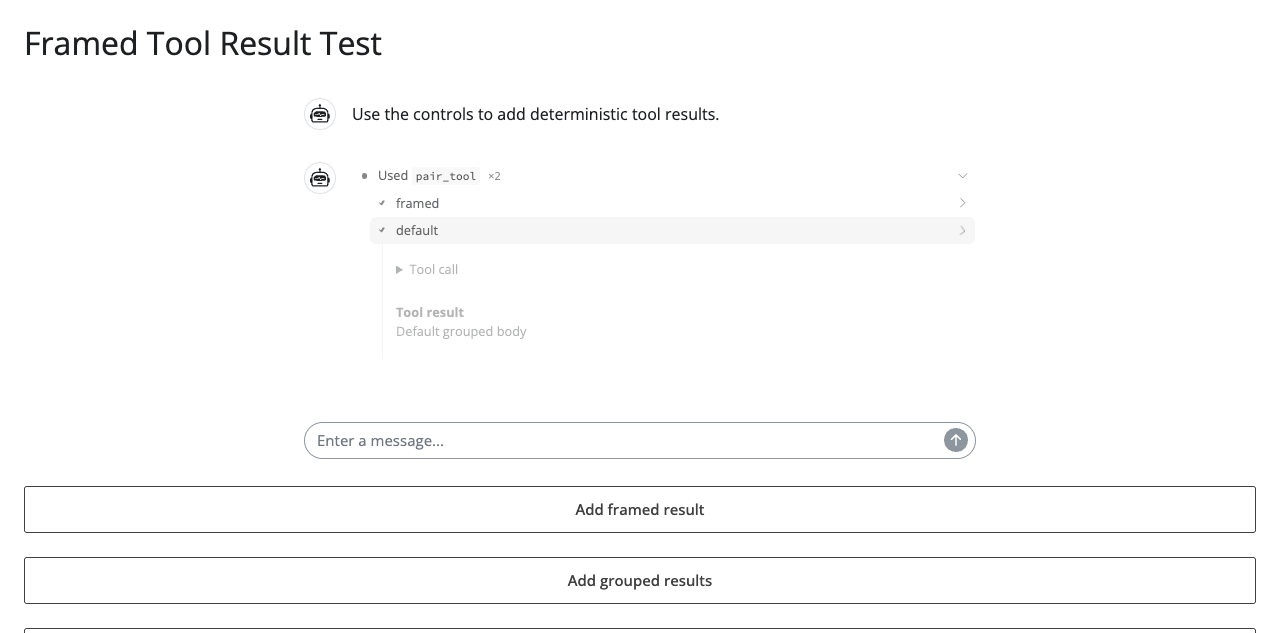
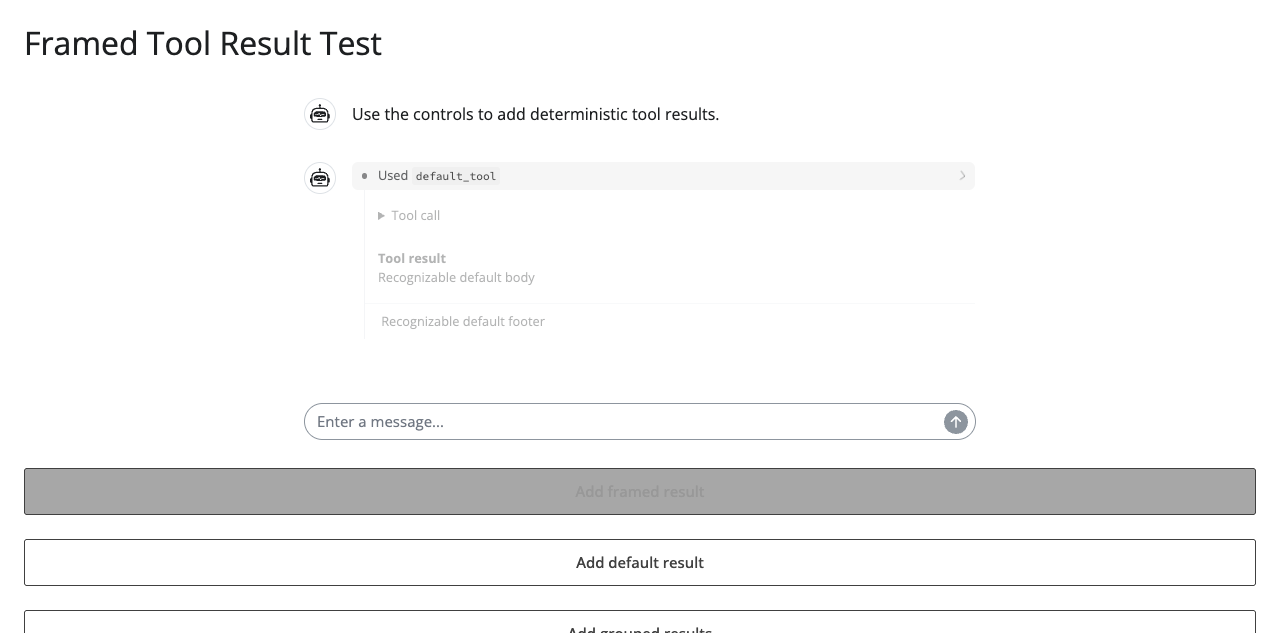
docs: clarify framed tool result states

diff --git a/pkg-py/tests/playwright/tools/framed_result/app.py b/pkg-py/tests/playwright/tools/framed_result/app.py
@@ -97,6 +97,7 @@ chat = Chat(id="chat")
 chat.ui(messages=["Use the controls to add deterministic tool results."])
 
 ui.input_action_button("add_framed", "Add framed result")
+ui.input_action_button("add_default", "Add default result")
 ui.input_action_button("add_grouped", "Add grouped results")
 ui.input_action_button("add_fullscreen", "Add fullscreen result")
 ui.input_action_button("add_error", "Add errored result")
@@ -114,6 +115,20 @@ async def add_framed_result() -> None:
             text="Recognizable framed body",
             footer=ui.span("Recognizable framed footer"),
             presentation="framed",
+        ),
+    )
+
+
+@reactive.effect
+@reactive.event(input.add_default)
+async def add_default_result() -> None:
+    await append_single_result(
+        id="default-single",
+        name="default_tool",
+        value="Recognizable default body",
+        display=ToolResultDisplay(
+            text="Recognizable default body",
+            footer=ui.span("Recognizable default footer"),
         ),
     )
 
